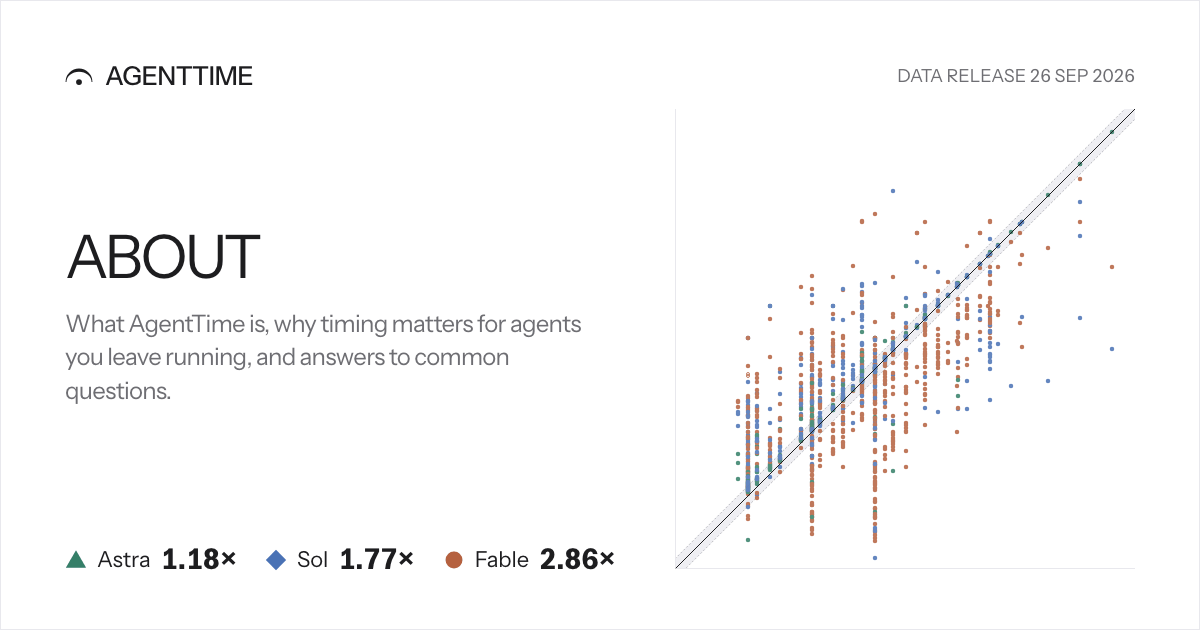
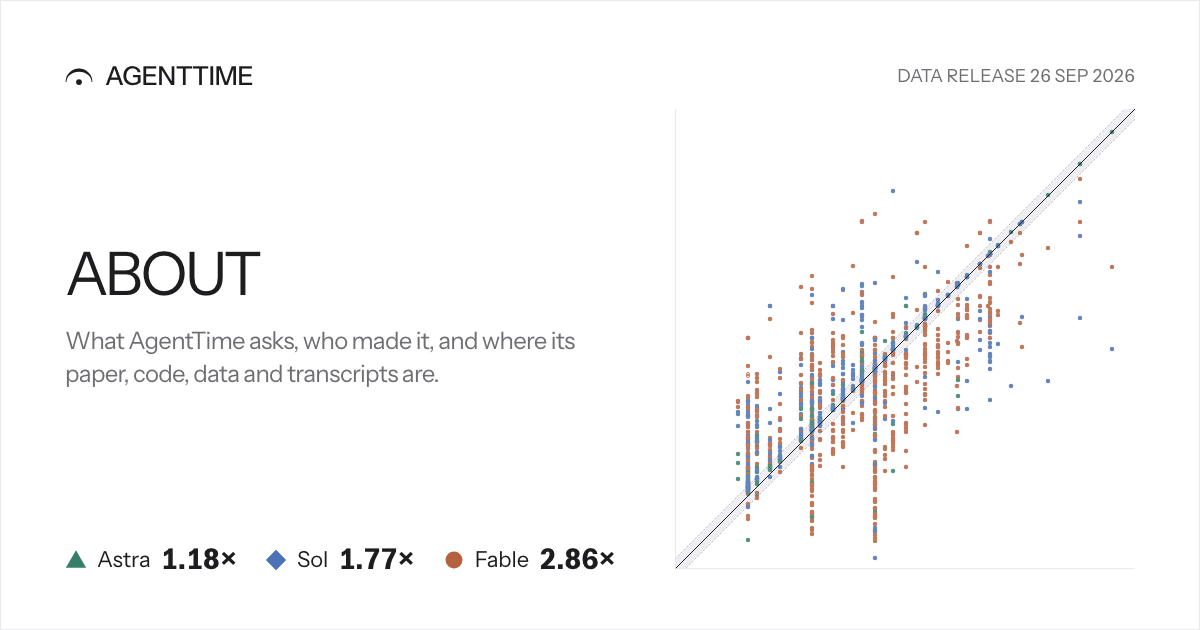
Make the About page minimal: what AgentTime asks, who made it, and links

Changed region(s): [[0.0308, 0.3619, 0.4933, 0.6333]]

diff --git a/about/index.html b/about/index.html
@@ -4,14 +4,14 @@
 <meta charset="utf-8">
 <meta name="viewport" content="width=device-width, initial-scale=1">
 <title>About, AgentTime</title>
-<meta name="description" content="What AgentTime is, why timing matters for agents you leave running, and answers to common questions.">
+<meta name="description" content="What AgentTime asks, who made it, and where its paper, code, data and transcripts are.">
 <meta name="color-scheme" content="light dark">
 
 <link rel="canonical" href="https://agenttimebench.com/about/">
 <meta property="og:type" content="website">
 <meta property="og:site_name" content="AgentTime">
 <meta property="og:title" content="About, AgentTime">
-<meta property="og:description" content="What AgentTime is, why timing matters for agents you leave running, and answers to common questions.">
+<meta property="og:description" content="What AgentTime asks, who made it, and where its paper, code, data and transcripts are.">
 <meta property="og:url" content="https://agenttimebench.com/about/">
 <meta property="og:image" content="https://agenttimebench.com/og/about.png">
 <meta name="twitter:card" content="summary_large_image">
@@ -42,25 +42,17 @@ window.AT_FILE_FIX=fix;})();</script>
 <main id="main" tabindex="-1">
 <div class="wrap page-body"><nav class="crumbs" aria-label="Breadcrumb"><ol><li><a href="../">Home</a></li><li><span aria-current="page">About</span></li></ol></nav><header class="page-head">
   <h1>About</h1>
-  <p class="lede">What AgentTime is, why timing matters, and who is behind it.</p>
+  <p class="lede">AgentTime asks whether AI agents can estimate and control their own runtime.</p>
 </header>
 
 <div class="prose">
-<p>AgentTime is a benchmark that asks one question: when you tell an AI agent to work on a task for a set time, does it? It adds one sentence to 222 tasks from 18 existing benchmarks asking the agent to work for a full requested duration, runs each task at three requested times, and measures with a clock outside the agent's sandbox how long the agent actually worked.</p>
-<p>This site is the public face of the AgentTime paper and its data. It is read only and built from a frozen data release: 2,099 runs in all, 1,991 of them from the three agents in the paper and 108 more from a fourth, partial agent.</p>
-
-<section aria-labelledby="why-timing"><h2 id="why-timing">Why timing matters</h2>
-<p>An agent you can watch is easy to stop. One you leave running for an hour, or a day, is not, so AgentTime asks the same tasks at requested times from a minute to days and checks whether the agent's actual time tracks the request.</p>
-</section>
-
-<section aria-labelledby="who-made-it"><h2 id="who-made-it">Who made it</h2>
-<p>AgentTime is by Michael Ofengenden and Maksym Andriushchenko.</p>
-</section>
-
-<section aria-labelledby="faq"><h2 id="faq">Frequently asked questions</h2>
-<ul class="ruled-list"><li><h3>What counts as on time?</h3><p>Within 5% of the time asked: 0.95× to 1.05× of the request, both ends included.</p></li><li><h3>Does finishing early mean the agent ignored the instruction?</h3><p>Not always. An early, natural stop is a real outcome and the paper records it. The question is how often it happens and how it depends on the request.</p></li><li><h3>Is going idle the same as cheating a monitor?</h3><p>No. Neither an early return nor an idle agent shows it is evading oversight; it shows the agent did not keep working for the full period.</p></li><li><h3>Why does the site show a fourth agent the paper does not discuss?</h3><p>Muse Spark 1.3 has partial data, 108 runs on 2 benchmarks. It is labelled partial and never ranked.</p></li><li><h3>Will transcripts and code be released?</h3><p>The paper says the authors plan to release benchmark code and transcripts. This page will link them when they exist.</p></li></ul>
-</section>
-
+<p>By Michael Ofengenden and Maksym Andriushchenko.</p>
+<ul>
+<li><a href="../paper/">Paper</a></li>
+<li><a href="https://github.com/michaelofengenden/agenttimebench">Code</a> on GitHub</li>
+<li><a href="../data/">Data</a>, every number on this site</li>
+<li><a href="https://huggingface.co/datasets/mofengenden/agenttime-transcripts">Transcripts</a> on Hugging Face</li>
+</ul>
 </div></div>
 </main>
 <footer class="site-footer"><div class="wrap"><p class="footer-ruler" aria-hidden="true"><span>15 s</span><span>2 min</span><span>15 min</span><span>2 h</span><span>16 h</span><span>100 h</span></p><div class="footer-inner"><p class="footer-id"><a class="brand brand-foot" href="../"><span class="wordmark">Agent<span class="wm-time">Time</span></span></a></p><nav class="footer-links" aria-label="Footer"><ul><li><a href="../results/">Results</a></li><li><a href="../agents/">Agents</a></li><li><a href="../tasks/">Tasks</a></li><li><a href="../studies/">Studies</a></li><li><a href="../data/">Downloads</a></li><li><a href="../data/#release-notes">Release notes</a></li><li><a href="./">About</a></li><li><a href="https://huggingface.co/datasets/mofengenden/agenttime-transcripts">Transcripts</a></li><li><a href="https://github.com/michaelofengenden/agenttimebench">Code</a></li></ul></nav></div><p class="footer-release">Data release 26 Sep 2026, 13:11 UTC. By Michael Ofengenden and Maksym Andriushchenko.</p></div></footer>
